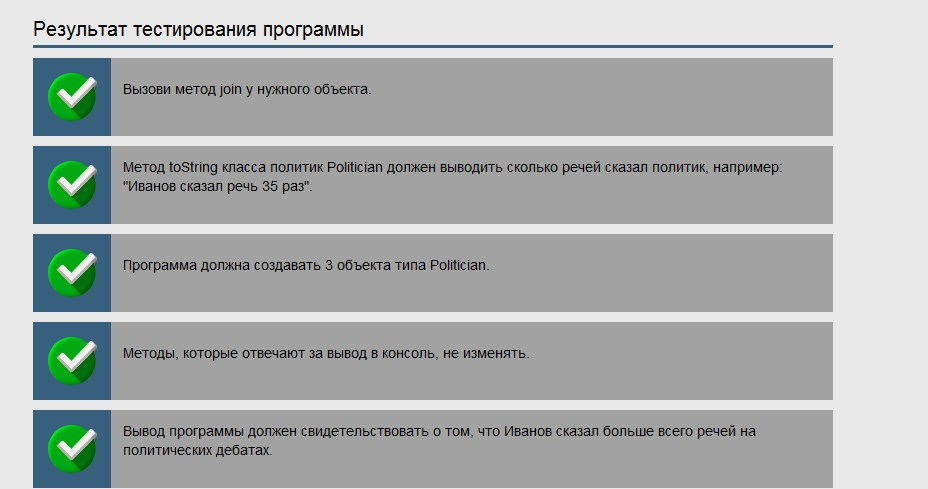
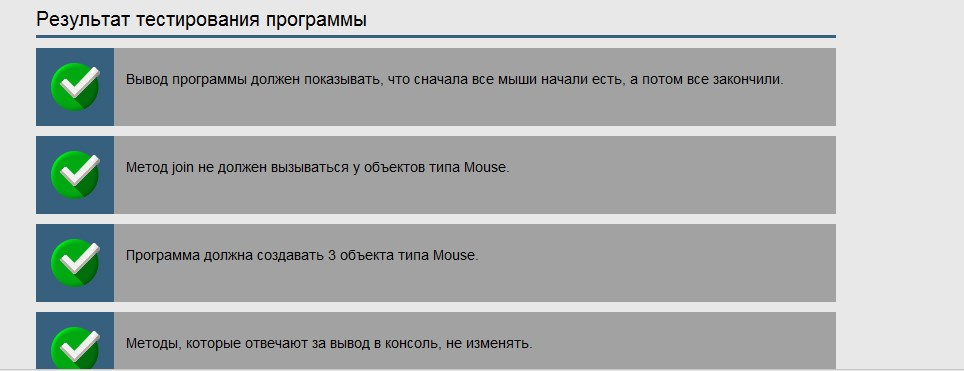
Справедливость
task16.task1609;

Changed region(s): [[0.0, 0.0296, 1.0, 1.0]]

diff --git a/JavaRushTasks/JavaRushTasks/2.JavaCore/src/com/javarush/task/task16/task1609/Solution.java b/JavaRushTasks/JavaRushTasks/2.JavaCore/src/com/javarush/task/task16/task1609/Solution.java
@@ -1,0 +1,38 @@
+package com.javarush.task.task16.task1609;
+
+/* 
+Справедливость
+1. Разберись, что делает программа.
+2. Нужно сделать так, чтобы все мыши ели одновременно.
+3. Подумай, какой метод позволяет альфа-самцу мыши есть первым, и почему остальные мыши ждут.
+4. Удали вызов этого метода.
+*/
+
+public class Solution {
+    public static void main(String[] args) throws InterruptedException {
+        Mouse alpha = new Mouse("#1");
+        alpha.join();
+        Mouse mouse1 = new Mouse("#2");
+        Mouse mouse2 = new Mouse("#3");
+    }
+
+    private static void eating() {
+        try {
+            Thread.sleep(2000);
+        } catch (InterruptedException e) {
+        }
+    }
+
+    public static class Mouse extends Thread {
+        public Mouse(String name) {
+            super(name);
+            start();
+        }
+
+        public void run() {
+            System.out.println(getName() + " starts eating");
+            eating();
+            System.out.println(getName() + " finished eating");
+        }
+    }
+}
